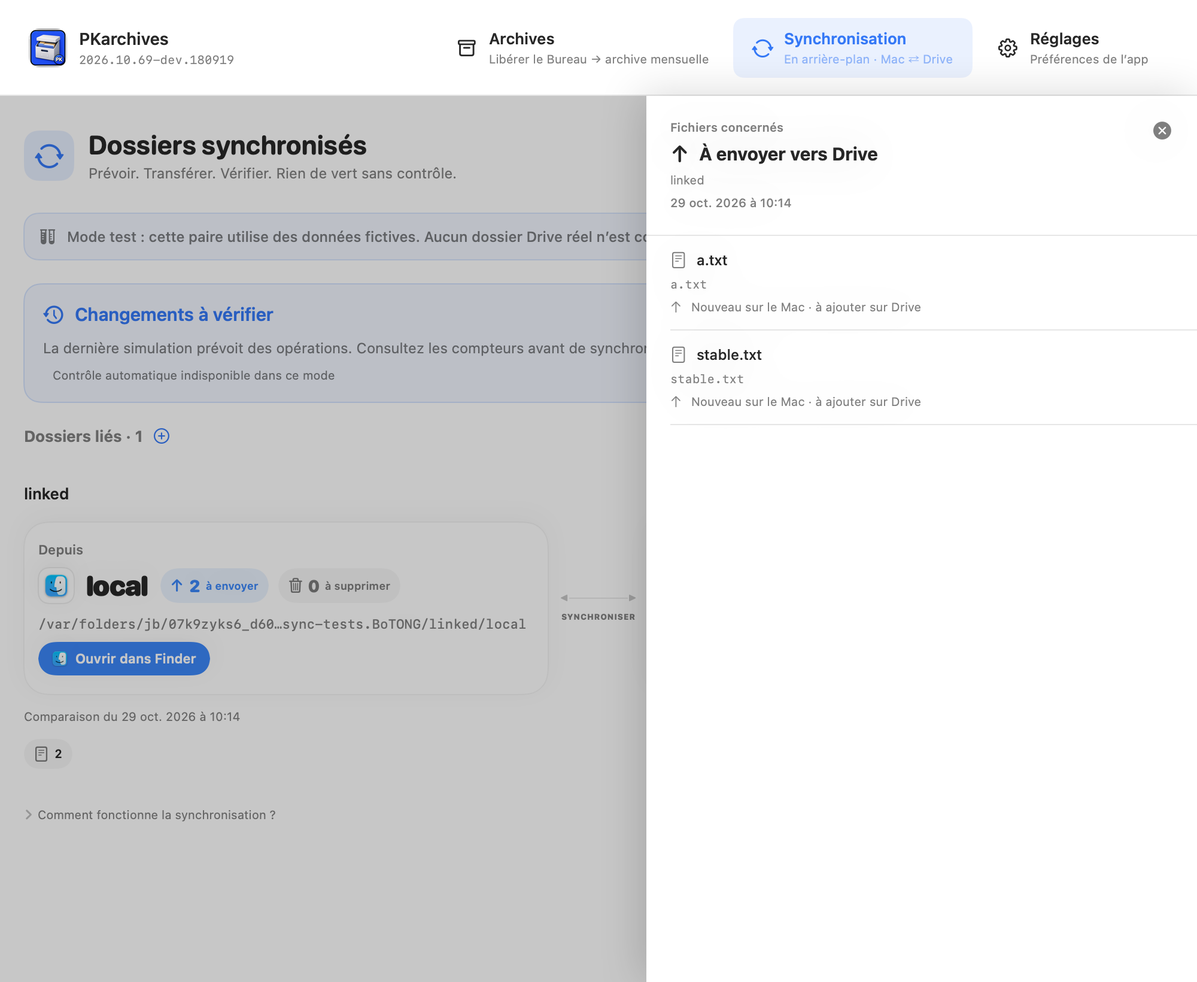
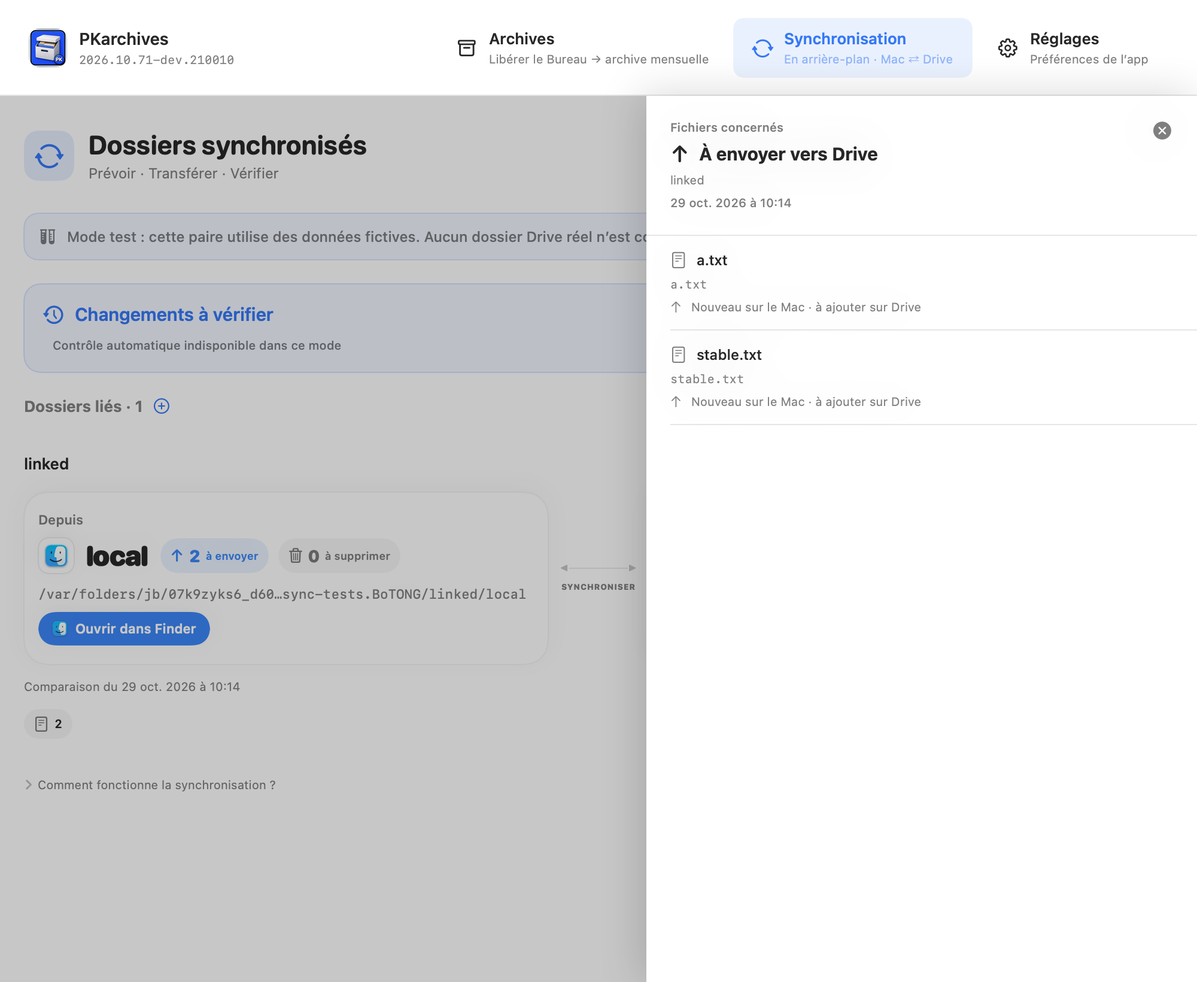
MAJ: bloc d'etat unique et tri des paires selon leur activite

diff --git a/src/macos/PKSync.swift b/src/macos/PKSync.swift
@@ -4,7 +4,7 @@ import AppKit
 // Same inline FR/EN/ES/DE convention as the existing PK settings shell.
 private let syncStrings: [String: [String]] = [
     "title": ["Dossiers synchronisés", "Synced folders", "Carpetas sincronizadas", "Synchronisierte Ordner"],
-    "subtitle": ["Prévoir. Transférer. Vérifier. Rien de vert sans contrôle.", "Preview. Transfer. Verify. No green status without a check.", "Simular. Transferir. Verificar. Ningún estado verde sin control.", "Vorschau. Übertragen. Prüfen. Kein grüner Status ohne Prüfung."],
+    "subtitle": ["Prévoir · Transférer · Vérifier", "Preview · Transfer · Verify", "Simular · Transferir · Verificar", "Vorschau · Übertragen · Prüfen"],
     "add": ["Ajouter un dossier", "Add folder", "Añadir carpeta", "Ordner hinzufügen"],
     "createPair": ["Créer une paire", "Create a pair", "Crear una pareja", "Paar erstellen"],
     "editPair": ["Modifier la paire", "Edit pair", "Editar pareja", "Paar bearbeiten"],
@@ -588,7 +588,6 @@ struct SyncSectionView: View {
                 } else {
                     globalStatus
                 }
-                if engine.busy { progressBanner }
                 HStack {
                     if tab == "pairs" {
                         Text("\(syncText("linkedFolders")) · \(engine.pairs.count)")
@@ -698,10 +697,10 @@ struct SyncSectionView: View {
             : verified ? "checkmark.seal.fill" : "clock.arrow.circlepath"
         let color: Color = failed ? .orange : verified ? .green : .accentColor
         let lastVerified = enabled.compactMap(\.lastRun).min()
-        let lastReal = enabled.count == 1 ? engine.runs.first(where: { $0.pair.id == enabled[0].id && !$0.dryRun && $0.finished != nil }) : nil
-        return VStack(alignment: .leading, spacing: 9) {
+        return VStack(alignment: .leading, spacing: 8) {
             HStack(alignment: .firstTextBaseline) {
                 Label(title, systemImage: symbol).font(.title3.weight(.semibold)).foregroundStyle(color)
+                    .help(hint)
                 Spacer(minLength: 12)
                 if !enabled.isEmpty {
                     Button { engine.syncAll(dryRun: true) } label: {
@@ -726,32 +725,80 @@ struct SyncSectionView: View {
                 }
             }
             if engine.storageError != nil { Text(engine.storageError ?? "").font(.callout).foregroundStyle(.orange) }
-            else if previewOnly { Text(syncText("status.previewOnlyNote")).font(.callout).foregroundStyle(.secondary) }
-            else if verified { Text(syncText("status.checkedNote")).font(.callout).foregroundStyle(.secondary) }
-            else if previewChanges { Text(syncText("status.previewChanges")).font(.callout).foregroundStyle(.secondary) }
-            if let lastVerified {
-                Text("\(syncText("status.lastChecked")) · \(lastVerified.formatted(date: .abbreviated, time: .shortened))")
-                    .font(.caption).foregroundStyle(.secondary)
-            }
-            if let transfers = lastReal?.transfers {
-                Text(String(format: syncText("status.lastTransfers"), transfers.sent, transfers.received, transfers.deleted))
-                    .font(.caption.monospacedDigit()).foregroundStyle(.secondary)
-            }
+            if engine.busy { runSummary }
             if let paused = engine.pausedUntil {
                 Text(String(format: syncText("pausedUntilLabel"), paused.formatted(date: .omitted, time: .shortened)))
                     .font(.caption.weight(.medium)).foregroundStyle(.orange)
             } else if engine.automaticEnabled, let next = engine.nextAutomaticCheck {
                 TimelineView(.periodic(from: .now, by: 10)) { _ in
-                    Text("\(syncText("status.nextCheck")) \(next.formatted(.relative(presentation: .named))) (\(next.formatted(date: .omitted, time: .shortened)))")
+                    Text(infoLine(next: next))
                         .font(.caption.weight(.medium)).foregroundStyle(.secondary)
                 }
+            } else if let lastVerified {
+                Text("\(syncText("status.lastChecked")) · \(lastVerified.formatted(date: .abbreviated, time: .shortened))")
+                    .font(.caption.weight(.medium)).foregroundStyle(.secondary)
             }
             Label(syncText(engine.automaticEnabled ? "status.cadence" : "status.cadenceOff"), systemImage: engine.automaticEnabled ? "menubar.rectangle" : "clock.slash")
-                .font(.caption).foregroundStyle(.secondary).fixedSize(horizontal: false, vertical: true)
+                .font(.caption2).foregroundStyle(.secondary).fixedSize(horizontal: false, vertical: true)
         }
         .padding(16).frame(maxWidth: .infinity, alignment: .leading)
         .background(color.opacity(0.07), in: RoundedRectangle(cornerRadius: 14))
         .overlay(RoundedRectangle(cornerRadius: 14).stroke(color.opacity(0.19), lineWidth: 1))
+    }
+
+    /// One compact line: last verified check + next automatic check.
+    private func infoLine(next: Date) -> String {
+        var parts = [String]()
+        if let lastVerified = engine.pairs.filter(\.enabled).compactMap(\.lastRun).min() {
+            parts.append("\(syncText("status.lastChecked")) \(lastVerified.formatted(date: .omitted, time: .shortened))")
+        }
+        parts.append("\(syncText("status.nextCheck")) \(next.formatted(.relative(presentation: .named))) (\(next.formatted(date: .omitted, time: .shortened)))")
+        return parts.joined(separator: " · ")
+    }
+
+    private var hint: String {
+        let enabled = engine.pairs.filter(\.enabled)
+        if engine.storageError != nil { return engine.storageError ?? "" }
+        if enabled.contains(where: \.previewOnly) { return syncText("status.previewOnlyNote") }
+        if enabled.allSatisfy({ engine.presentationState(for: $0) == "verified" }) { return syncText("status.checkedNote") }
+        return syncText("status.previewChanges")
+    }
+
+    /// The live run inside the status block: name, phase, one metrics line, one done line.
+    private var runSummary: some View {
+        let progress = engine.runProgress ?? RunProgress()
+        let pair = engine.pairs.first { $0.id == engine.runningPairID }
+        let phase = {
+            switch progress.phase {
+            case .listing: return syncText("phase.listing")
+            case .pull: return syncText("phase.pull")
+            case .push: return syncText("phase.push")
+            case .deleting: return syncText("phase.deleting")
+            case .verifying: return syncText("phase.verifying")
+            }
+        }()
+        let fraction: Double? = progress.bytesTotal > 0 ? min(1, max(0, Double(progress.bytesDone) / Double(progress.bytesTotal))) : nil
+        return VStack(alignment: .leading, spacing: 6) {
+            HStack {
+                ProgressView().controlSize(.mini).accessibilityHidden(true)
+                Text("\(pair?.name ?? "—") — \(phase)").font(.callout.weight(.semibold)).lineLimit(1).truncationMode(.tail)
+                Spacer(minLength: 8)
+                if let fraction { Text("\(Int(fraction * 100)) %").font(.callout.monospacedDigit()) }
+                Button(syncText("stop")) { engine.stopRunning() }.controlSize(.mini)
+            }
+            if progress.transfersTotal > 0 {
+                Text("\(String(format: syncText("filesProgress"), "\(progress.transfersDone)", "\(progress.transfersTotal)")) · \(SyncEngine.byteText(progress.bytesDone)) / \(SyncEngine.byteText(progress.bytesTotal))\(progress.speed > 0 ? " · \(SyncEngine.byteText(Int64(progress.speed)))/s" : "")\(progress.eta != nil ? " · \(syncText("remaining")) ~\(Self.durationText(progress.eta!))" : "")")
+                    .font(.caption.monospacedDigit()).foregroundStyle(.secondary)
+                ProgressView(value: fraction ?? 0).controlSize(.small)
+            } else {
+                Text(String(format: syncText("analyzing"), "\(progress.listed)"))
+                    .font(.caption.monospacedDigit()).foregroundStyle(.secondary)
+            }
+            Text("\(syncText("doneCount")) : \(String(format: syncText("pushCount"), "\(progress.pushDone)")) · \(String(format: syncText("pullCount"), "\(progress.pullDone)")) · \(String(format: syncText("deleteCount"), "\(progress.deleteDone)")) · \(syncText("elapsedShort")) \(Self.durationText(progress.elapsed))")
+                .font(.caption2.monospacedDigit()).foregroundStyle(.secondary)
+        }
+        .padding(10)
+        .background(Color.primary.opacity(0.05), in: RoundedRectangle(cornerRadius: 10))
     }
 
     private func operationDrawer(_ selection: SelectedSyncOperation) -> some View {
@@ -822,94 +869,27 @@ struct SyncSectionView: View {
             .overlay(RoundedRectangle(cornerRadius: 12).stroke(Color.accentColor.opacity(0.16), lineWidth: 1))
     }
 
-    /// Live execution feedback: rclone's planned operations, real progress, speed and ETA.
-    private var progressBanner: some View {
-        let progress = engine.runProgress ?? RunProgress()
-        let pair = engine.pairs.first(where: { $0.id == engine.runningPairID })
-        let phase: String = {
-            switch progress.phase {
-            case .listing: return engine.isDryRun ? syncText("phase.listing") : syncText("phase.listing")
-            case .pull: return syncText("phase.pull")
-            case .push: return syncText("phase.push")
-            case .deleting: return syncText("phase.deleting")
-            case .verifying: return syncText("phase.verifying")
-            }
-        }()
-        return VStack(alignment: .leading, spacing: 8) {
-            HStack(alignment: .top, spacing: 10) {
-                ProgressView().controlSize(.small).padding(.top, 2)
-                VStack(alignment: .leading, spacing: 4) {
-                    Text("\(pair?.name ?? "—") — \(phase)").font(.headline)
-                    if progress.transfersTotal > 0 {
-                        Text("\(String(format: syncText("filesProgress"), "\(progress.transfersDone)", "\(progress.transfersTotal)")) · \(SyncEngine.byteText(progress.bytesDone)) / \(SyncEngine.byteText(progress.bytesTotal))\(progress.bytesTotal > 0 ? " · \(Int(Double(progress.bytesDone) * 100 / Double(progress.bytesTotal))) %" : "")")
-                            .font(.caption.monospacedDigit())
-                    } else {
-                        Text(String(format: syncText("analyzing"), "\(progress.listed)"))
-                            .font(.caption.monospacedDigit())
-                    }
-                    HStack(spacing: 14) {
-                        if progress.speed > 0 { Label("\(SyncEngine.byteText(Int64(progress.speed)))/s", systemImage: "speedometer") }
-                        if let eta = progress.eta { Label("\(syncText("remaining")) ~\(Self.durationText(eta))", systemImage: "clock") }
-                        Label("\(syncText("elapsedShort")) \(Self.durationText(progress.elapsed))", systemImage: "timer")
-                    }.font(.caption).foregroundStyle(.secondary)
-                    HStack(spacing: 14) {
-                        Text("\(syncText("planned")) :")
-                        Text(String(format: syncText("pushCount"), "\(progress.plannedPushes)"))
-                        Text(String(format: syncText("pullCount"), "\(progress.plannedPulls)"))
-                        Text(String(format: syncText("deleteCount"), "\(progress.plannedDeletes)"))
-                    }.font(.caption.monospacedDigit())
-                    HStack(spacing: 14) {
-                        Text("\(syncText("doneCount")) :")
-                        Text(String(format: syncText("pushCount"), "\(progress.pushDone)"))
-                        Text(String(format: syncText("pullCount"), "\(progress.pullDone)"))
-                        Text(String(format: syncText("deleteCount"), "\(progress.deleteDone)"))
-                    }.font(.caption.monospacedDigit()).foregroundStyle(.secondary)
-                }
-                Spacer()
-                Button(syncText("stop")) { engine.stopRunning() }
-                    .controlSize(.small).accessibilityLabel(syncText("stopRun"))
-            }
-        }.padding(14).frame(maxWidth: .infinity, alignment: .leading)
-            .background(Color.accentColor.opacity(0.07), in: RoundedRectangle(cornerRadius: 12))
-            .overlay(RoundedRectangle(cornerRadius: 12).stroke(Color.accentColor.opacity(0.25), lineWidth: 1))
-    }
     static func durationText(_ seconds: TimeInterval) -> String { SyncEngine.durationText(seconds) }
 
-    private var queueHeader: some View {
-        VStack(alignment: .leading, spacing: 8) {
-            HStack {
-                Label(syncText("queueTitle"), systemImage: "list.number").font(.headline)
-                Spacer()
-                if engine.inventoryBusy { HStack(spacing: 6) { ProgressView().controlSize(.small); Text(syncText("counting")) }.font(.caption).foregroundStyle(.secondary) }
-                Button { engine.refreshAllInventories() } label: { Label(syncText("refreshCounts"), systemImage: "arrow.clockwise") }
-                    .controlSize(.small)
-                    .disabled(engine.inventoryBusy || engine.busy || engine.pairs.isEmpty || engine.storageError != nil)
-            }
-            // The running pair is already detailed in the banner above; only queued pairs are listed here.
-            let queued = engine.queue.compactMap { job in engine.pairs.first(where: { $0.id == job.pairID }) }
-            if engine.busy || !queued.isEmpty {
-                VStack(alignment: .leading, spacing: 4) {
-                    ForEach(Array(queued.enumerated()), id: \.offset) { index, pair in
-                        HStack(spacing: 8) {
-                            Text("\(index + 1).").font(.caption.monospacedDigit()).foregroundStyle(.secondary).frame(width: 20, alignment: .trailing)
-                            Text(pair.name).font(.caption)
-                            if let job = engine.queue.first(where: { $0.pairID == pair.id }) {
-                                Text(job.dryRun ? syncText("simulating") : syncText("sync")).font(.caption2).foregroundStyle(.secondary)
-                            }
-                        }
-                    }
-                }
-            } else {
-                Text(engine.isPaused ? syncText("pausedAll") : syncText("queueEmpty"))
-                    .font(.caption).foregroundStyle(.secondary)
-            }
-        }.padding(14).frame(maxWidth: .infinity, alignment: .leading)
-            .background(Color(nsColor: .controlBackgroundColor), in: RoundedRectangle(cornerRadius: 12))
-            .overlay(RoundedRectangle(cornerRadius: 12).stroke(Color.primary.opacity(0.08), lineWidth: 1))
+    /// Pairs sorted by what deserves attention: running, queued, warnings, then calm states.
+    /// Stable otherwise: the user's creation order is preserved within a same rank.
+    private var orderedPairs: [SyncPair] {
+        func rank(_ pair: SyncPair) -> Int {
+            let state = engine.presentationState(for: pair)
+            if engine.runningPairID == pair.id { return 0 }
+            if engine.queue.contains(where: { $0.pairID == pair.id }) { return 1 }
+            if ["error", "unverified", "interrupted", "rateLimited", "needsResync", "archiveReview"].contains(state) { return 2 }
+            if state == "pending" || state == "archiveWaiting" { return 3 }
+            if pair.previewOnly { return 4 }
+            return 5
+        }
+        return engine.pairs.enumerated()
+            .sorted { a, b in rank(a.element) == rank(b.element) ? a.offset < b.offset : rank(a.element) < rank(b.element) }
+            .map(\.element)
     }
+
     private var pairsView: some View {
         VStack(spacing: 12) {
-            if !engine.pairs.isEmpty && (!engine.queue.isEmpty || engine.inventoryBusy) { queueHeader }
             if engine.pairs.isEmpty {
                 VStack(spacing: 14) {
                     Image(systemName: "folder.badge.gearshape").font(.system(size: 36)).foregroundStyle(.secondary).accessibilityHidden(true)
@@ -917,8 +897,9 @@ struct SyncSectionView: View {
                     Text(syncText("emptyBody")).font(.callout).foregroundStyle(.secondary).multilineTextAlignment(.center)
                 }.frame(maxWidth: .infinity).padding(32)
             }
-            ForEach(engine.pairs) { pair in pairCard(pair) }
+            ForEach(orderedPairs) { pair in pairCard(pair) }
         }
+        .animation(NSWorkspace.shared.accessibilityDisplayShouldReduceMotion ? nil : .spring(duration: 0.3), value: orderedPairs.map(\.id))
     }
     private func pairCard(_ pair: SyncPair) -> some View {
         let presentation = engine.presentationState(for: pair)

diff --git a/README.md b/README.md
@@ -66,7 +66,7 @@ des menus. Pour compiler soi-même : `./scripts/build.sh`.
 Le nouveau mode est disponible dans les sources et la build Dev, **pas encore dans les téléchargements Stable ci-dessous**. L’archivage du Bureau reste un mode séparé ; la CLI/TUI ne propose pas encore la synchronisation.
 
 1. L’app démarre sur **Archives**, premier onglet (**⌘1**), pour le nettoyage mensuel du Bureau. La navigation **Archives / Synchronisation / Réglages** est regroupée à droite, séparée du titre PKarchives, avec le même format pour les trois boutons. Choisir **Synchronisation**, identifié « En arrière-plan » (**⌘2**), puis **Créer une paire**. Les tâches de synchro continuent indépendamment de l’onglet affiché. La liste **Dossiers liés** montre les dossiers Mac reliés à Drive ; **Voir l’historique** ouvre les rapports sans sélecteur segmenté.
-2. L’écran affiche d’abord un **statut global** : dernier contrôle vérifié (daté, pas une garantie permanente), changements à vérifier, simulation seule, pause, exécution ou action nécessaire, avec deux boutons toujours visibles : **Actualiser tout** (comparaison de toutes les paires, aucun transfert) et **Synchroniser tout**. Le **prochain contrôle automatique** est affiché avec son décompte et son heure. La cadence réelle : changements Mac contrôlés 45 s après modification, Drive environ chaque heure et au réveil, en arrière-plan via l’icône 📦 tant que PKarchives est actif — avec lancement à l’ouverture de session dans **Réglages → Général**, la synchronisation peut remplacer l’app Google Drive. Les panneaux **Depuis / Vers** conservent les compteurs à envoyer, à rapatrier et à supprimer, avec détail au clic. **Actualiser les fichiers** prépare une comparaison sans transfert ; **Synchroniser maintenant** lance une exécution réelle (première fusion confirmée explicitement). Après un contrôle vérifié, les compteurs valent zéro à la date du contrôle ; sinon, sans comparaison disponible, « — » indique une valeur inconnue. Aucun ancien plan ne redevient une liste de transferts à effectuer. Le bilan des nouvelles exécutions distingue les fichiers envoyés, rapatriés et supprimés. La grande boîte de gestion et ses commandes ont disparu de cette vue ; l’inventaire et la gestion des paires se trouvent dans **Réglages → Synchronisation**.
+2. L’écran affiche d’abord un **bloc de statut unique** : titre d’état, boutons **Actualiser tout** (comparaison de toutes les paires, aucun transfert) et **Synchroniser tout**, progression condensée de l’exécution en cours (une ligne de métriques, une ligne de bilan, une barre), **dernier contrôle vérifié et prochain contrôle automatique sur une ligne**, puis la cadence en note fine — les explications longues sont en info-bulle sur le titre. Fonctionnement en arrière-plan via l’icône 📦 tant que PKarchives est actif : changements Mac contrôlés 45 s après modification, Drive environ chaque heure et au réveil ; avec le lancement à l’ouverture de session (**Réglages → Général**), la synchronisation peut remplacer l’app Google Drive. En dessous, **les paires se trient selon leur état** : celle en cours en premier, puis la file, puis celles qui réclament une action, puis celles au repos. Les panneaux **Depuis / Vers** conservent les compteurs à envoyer, à rapatrier et à supprimer, avec détail au clic ; **Actualiser les fichiers** compare sans transfert, **Synchroniser maintenant** lance une exécution réelle (première fusion confirmée explicitement). Après un contrôle vérifié, les compteurs valent zéro à la date du contrôle ; sinon « — » indique une valeur inconnue, et aucun ancien plan ne redevient une liste de transferts à effectuer. Le bilan des exécutions distingue les fichiers envoyés, rapatriés et supprimés. L’inventaire et la gestion des paires restent dans **Réglages → Synchronisation**.
    **Bureau et archivage** : le Bureau et ses sous-dossiers peuvent être liés à une paire — espace de travail synchronisé, pendant que l’archivage mensuel vide le Bureau vers ses dossiers `AAAA_MM_mois`. Archivage et synchronisation ne tournent jamais en même temps (verrou commun, y compris pour `archive.sh` lancé depuis un terminal). Après un archivage, la paire passe en « copie de travail à réconcilier » : **Actualiser les fichiers** liste les suppressions volontaires, puis une confirmation unique propage ce nettoyage à la copie Drive — fichiers retirés vers le dossier de récupération, Bureau entièrement vidé réconcilié par miroir. Les archives mensuelles restent dans une destination distincte, obligatoirement différente du dossier Drive de travail, et ne sont jamais modifiées par la synchronisation.
 2. Dans le formulaire **Créer une paire**, choisir un dossier Mac dédié et donner un nom à la paire. Dans **Destination sur Google Drive**, laisser la connexion rclone habituelle (`gdrive`), cliquer **Ouvrir Google Drive**, ouvrir le dossier de destination, puis copier son **adresse complète depuis la barre du navigateur** et la coller dans **Lien du dossier**. Exemple : `https://drive.google.com/drive/folders/IDENTIFIANT_DU_DOSSIER`. L’app extrait l’identifiant : ne pas coller le nom du dossier, `gdrive:gdrive` ou le lien d’un fichier. Le navigateur doit être connecté au même compte Google que la connexion rclone ; coller un lien ne donne pas de droits supplémentaires. Enregistrer crée la paire, sans lancer de transfert.
    La méthode **Chemin rclone (avancé)** accepte encore un chemin relatif comme `Sync/Documents`, sans préfixe `gdrive:`. Ce chemin part de la racine du remote, **pas** du dossier d’archivage `PKARCHIVES_DRIVE_FOLDER_ID`. La configuration rclone n’est pas modifiée par la sélection d’un lien.

diff --git a/README_en.md b/README_en.md
@@ -66,7 +66,7 @@ To build it yourself: `./scripts/build.sh`.
 The new mode is available in the sources and Dev build, **not yet in the Stable downloads below**. Desktop archiving remains a separate mode; the CLI/TUI does not offer folder sync yet.
 
 1. The app starts on **Archives**, the first tab (**⌘1**), for monthly Desktop cleanup. **Archives / Synchronization / Settings** are grouped on the right, separate from the PKarchives title, with matching styling for all three buttons. Choose **Synchronization**, marked “In the background” (**⌘2**), then **Create a pair**. Sync jobs continue independently of the displayed tab. **Linked folders** lists the Mac folders connected to Drive; **View history** opens reports without a segmented tab control.
-2. The screen starts with an **overall status**: dated last verified check (not a permanent guarantee), changes awaiting a check, preview-only mode, pause, active run or action needed, with two always-visible buttons: **Refresh all** (compare every pair, no transfer) and **Sync all**. The **next automatic check** is shown with its countdown and time. Actual cadence: Mac changes checked 45 s after modification, Drive about hourly and on wake, in the background via the 📦 icon as long as PKarchives runs — with launch at login in **Settings → General**, sync can replace the Google Drive app. The **From / To** panels retain upload, download and deletion counts with file details on click. **Refresh files** compares without transferring; **Sync now** starts a real run (the initial merge requires explicit confirmation). After a verified check, counts show zero as of that check; otherwise, without a comparison, “—” means unknown. An obsolete preview is never revived as pending transfers. New real runs report files sent, received and deleted separately. The large pair-management box and its commands are removed from this view; inventory and pair management live under **Settings → Synchronization**.
+2. The screen starts with a **single status block**: state title, **Refresh all** (compare every pair, no transfer) and **Sync all** buttons, a condensed live-run section (one metrics line, one done line, a bar), **last verified check and next automatic check on one line**, then the cadence as a fine footnote — long explanations move to a tooltip on the title. Runs in the background via the 📦 icon as long as PKarchives is active: Mac changes checked 45 s after modification, Drive about hourly and on wake; with launch at login (**Settings → General**), sync can replace the Google Drive app. Below, **pairs sort by state**: the running pair first, then the queue, then pairs needing action, then pairs at rest. The **From / To** panels retain upload, download and deletion counts with file details on click; **Refresh files** compares without transferring, **Sync now** starts a real run (the initial merge requires explicit confirmation). After a verified check, counts show zero as of that check; otherwise “—” means unknown, and an obsolete preview is never revived as pending transfers. Runs report files sent, received and deleted separately. Inventory and pair management live under **Settings → Synchronization**.
    **Desktop and archiving**: the Desktop and its subfolders can be linked to a pair — a synchronized workspace — while monthly archiving keeps clearing the Desktop into its `YYYY_MM_month` folders. Archiving and syncing never run at the same time (shared lock, including `archive.sh` started from a terminal). After an archive, the pair switches to “reconcile working copy”: **Refresh files** lists the deliberate deletions, then a single confirmation propagates that cleanup to the Drive copy — removed files go to the recovery folder, and a fully emptied Desktop is reconciled by mirroring. Monthly archives stay in a separate destination, necessarily different from the working Drive folder, and are never modified by sync.
 2. In the **Create a pair** form, choose a dedicated Mac folder and name the pair. Under **Google Drive destination**, keep the usual rclone connection (`gdrive`), click **Open Google Drive**, open the destination folder, copy its **full address from the browser bar**, and paste it into **Folder link**. Example: `https://drive.google.com/drive/folders/FOLDER_IDENTIFIER`. The app extracts the ID: do not paste the folder name, `gdrive:gdrive` or a file link. The browser must use the same Google account as the rclone connection; pasting a link does not grant additional access. Saving creates the pair without starting a transfer.
    **rclone path (advanced)** still accepts a relative path such as `Sync/Documents`, without the `gdrive:` prefix. It starts at the remote root, **not** the `PKARCHIVES_DRIVE_FOLDER_ID` archive folder. Selecting a folder link does not change rclone configuration.

diff --git a/CHANGELOG.md b/CHANGELOG.md
@@ -4,7 +4,7 @@
 
 ## TODO — Roadmap
 
-Statut : `2026.10.70` (suppression de paire accessible au clic droit)
+Statut : `2026.10.71` (un bloc d’état unique et paires triées par activité)
 
 ### Sécurité & Publication GitHub
 - [x] Supprimer les binaire compilé et .app du repo
@@ -18,6 +18,12 @@ Statut : `2026.10.70` (suppression de paire accessible au clic droit)
 - [x] Dashboard SwiftUI et TUI avec statistiques et historique
 - [x] Graphique d'activité des archivages
 - [x] Navigation paramètres/historique dans les deux interfaces
+
+### [2026.10.71] - 2026-10-29
+#### Changed
+- Statut et exécution en cours forment un seul bloc : titre, boutons, progression condensée (une ligne de métriques, une ligne de bilan, une barre), dernière vérification et prochain contrôle sur une ligne, cadence en note fine ; les explications longues passent en info-bulle.
+- Les paires se trient selon leur état : en cours d’abord, en file, puis celles qui réclament une action (erreur, quota, réconciliation post-archivage, changements à vérifier), et enfin les paires au repos — l’ordre de création est conservé à l’intérieur d’un même niveau, avec animation de réordonnancement.
+- Le bandeau de progression séparé et l’encadré « file d’attente » disparaissent, remplacés par ce bloc unique et le tri dynamique.
 
 ### [2026.10.70] - 2026-10-29
 #### Fixed
